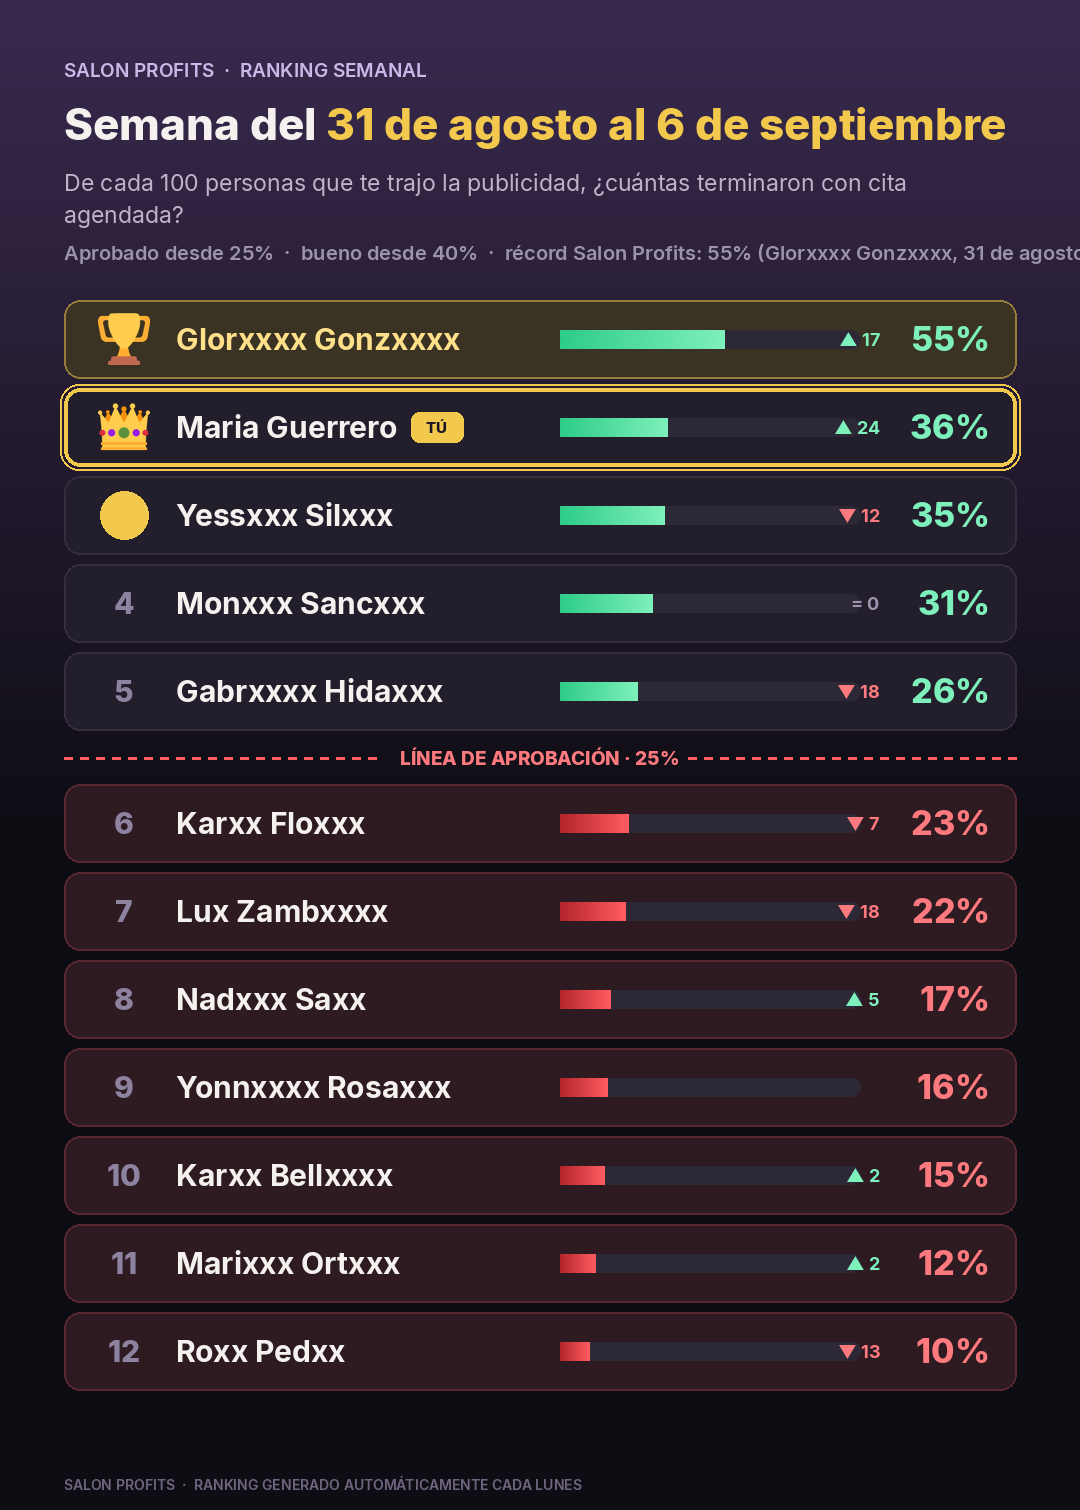
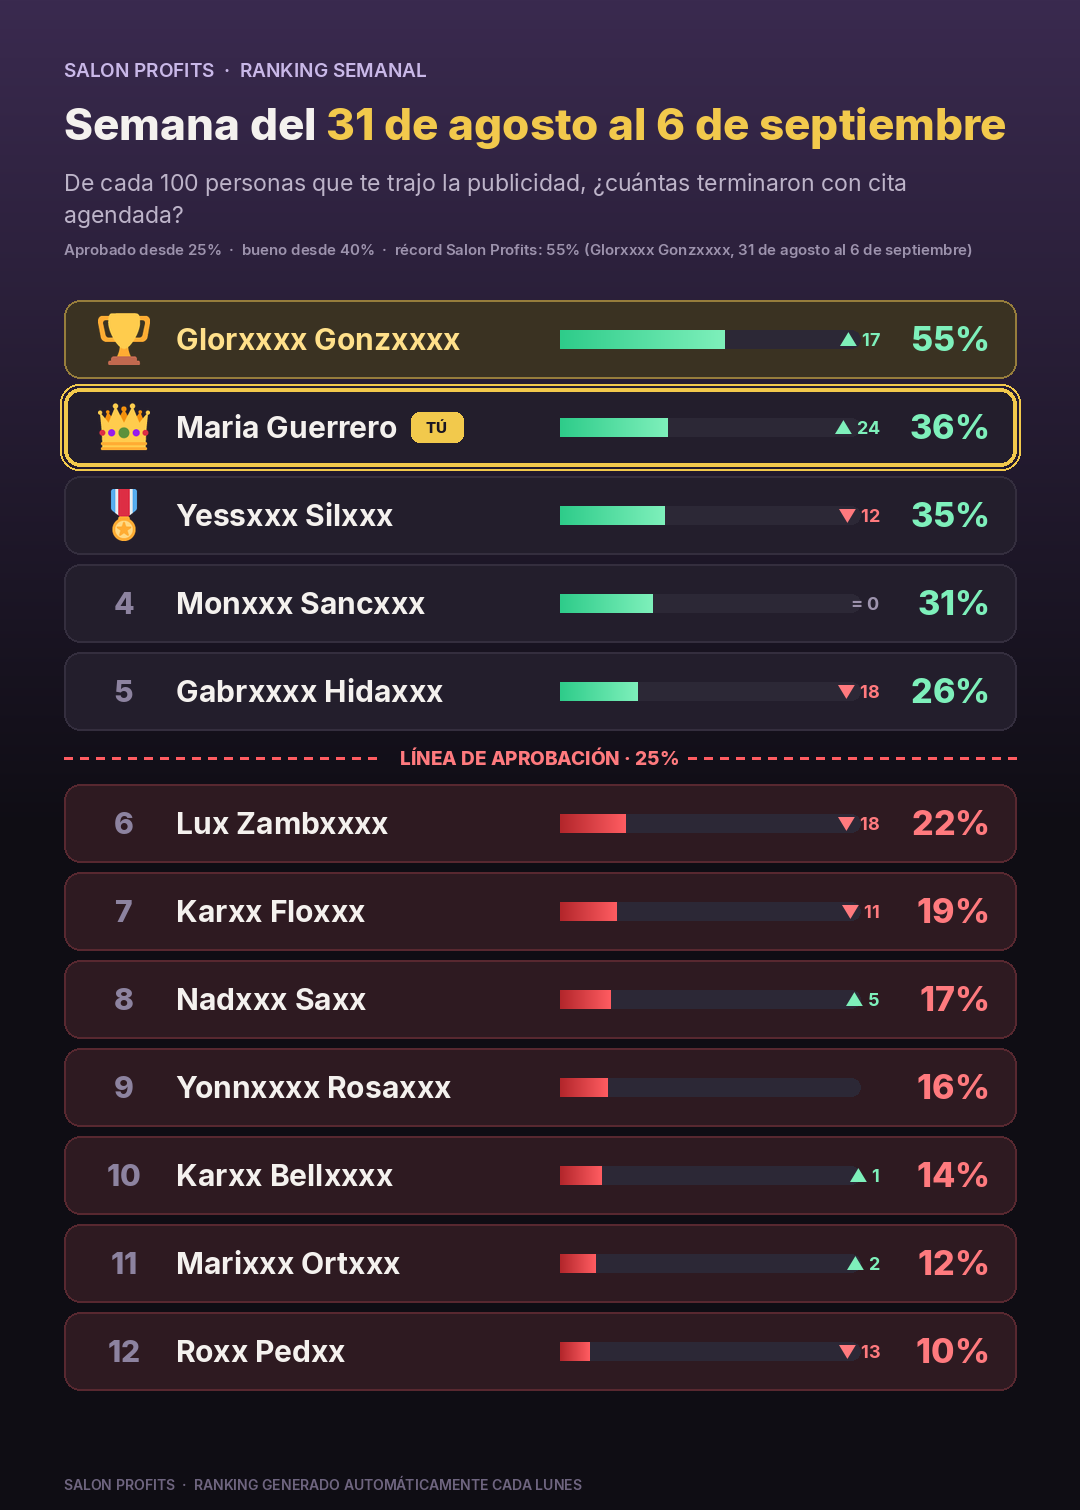
Ranking semana 31 de agosto al 6 de septiembre
ranking_semanal.py v5 -> v6: icono de medalla reparado (1 byte del IDAT) y
la linea del record ya no se sale de la imagen.

Claude-Session: https://claude.ai/code/session_01D8CPnHWntbeudNAz9AnHeX

diff --git a/_tools/ranking_semanal.py b/_tools/ranking_semanal.py
@@ -1,5 +1,5 @@
 #!/usr/bin/env python3
-"""Ranking semanal de agendamiento — Salon Profits. v5.
+"""Ranking semanal de agendamiento — Salon Profits. v6.
 
 Recibe los numeros ya medidos y produce un PNG por clienta destinataria, una
 imagen general para Jesus y Rossana, y resultado.json con puestos, zona y los
@@ -14,11 +14,17 @@ Cambios v5 (medidos el 7 sep 2026, no estimados):
   - --destinatarias: solo se renderiza PNG personal para quien de verdad lo
     recibe. Las demas se siguen midiendo y rankeando (cuentan para el ranking y
     para el record) pero no se publica una imagen con su nombre que nadie abre.
+
+Cambios v6 (8 sep 2026):
+  - el icono de medalla (1f396) tenia un byte corrupto en el IDAT: no
+    decodificaba y el puesto #3 caia siempre al circulo dorado de respaldo.
+  - la linea del record se salia por la derecha con record presente; ahora
+    prueba variante larga/corta y baja el cuerpo hasta 15 px para que quepa.
 """
 import argparse, base64, hashlib, io, json, math, os, sys, urllib.request, zipfile
 from PIL import Image, ImageDraw, ImageFont
 
-VERSION = 5
+VERSION = 6
 
 LINEA = 25
 BUENO = 40
@@ -40,7 +46,7 @@ INTER_ZIP = "https://github.com/rsms/inter/releases/download/v4.0/Inter-4.0.zip"
 ICONOS_B64 = {
[4 lines of base64/hex data omitted]
 }
 
 
@@ -175,10 +181,22 @@ def dibujar(rank, etiqueta, me_slug, assets, record=None, ventana_dias=7, tapar_
     y = 168
     for l in envolver(f_sub, sub, 950):
         texto(dr, (64, y), l, f_sub, (189, 180, 201)); y += 32
-    f_m = F("SemiBold", 20)
-    lin = f"Aprobado desde {LINEA}%  ·  bueno desde {BUENO}%"
+    base = f"Aprobado desde {LINEA}%  ·  bueno desde {BUENO}%"
+    lin, f_m = base, F("SemiBold", 20)
     if record and record.get("tasa"):
-        lin += f"  ·  récord Salon Profits: {record['tasa']}% ({nombre_tapado(record.get('nombre',''))}, {record.get('etiqueta','')})"
+        quien = nombre_tapado(record.get("nombre", ""))
+        largo = base + f"  ·  récord Salon Profits: {record['tasa']}% ({quien}, {record.get('etiqueta','')})"
+        corto = base + f"  ·  récord Salon Profits: {record['tasa']}% ({quien})"
+        for cand in (largo, corto):
+            for tam in range(20, 14, -1):
+                if ancho(F("SemiBold", tam), cand) <= W - 128:
+                    lin, f_m = cand, F("SemiBold", tam)
+                    break
+            else:
+                continue
+            break
+        else:
+            lin, f_m = corto, F("SemiBold", 15)
     texto(dr, (64, y + 8), lin, f_m, MUT)
 
     y = top_h
